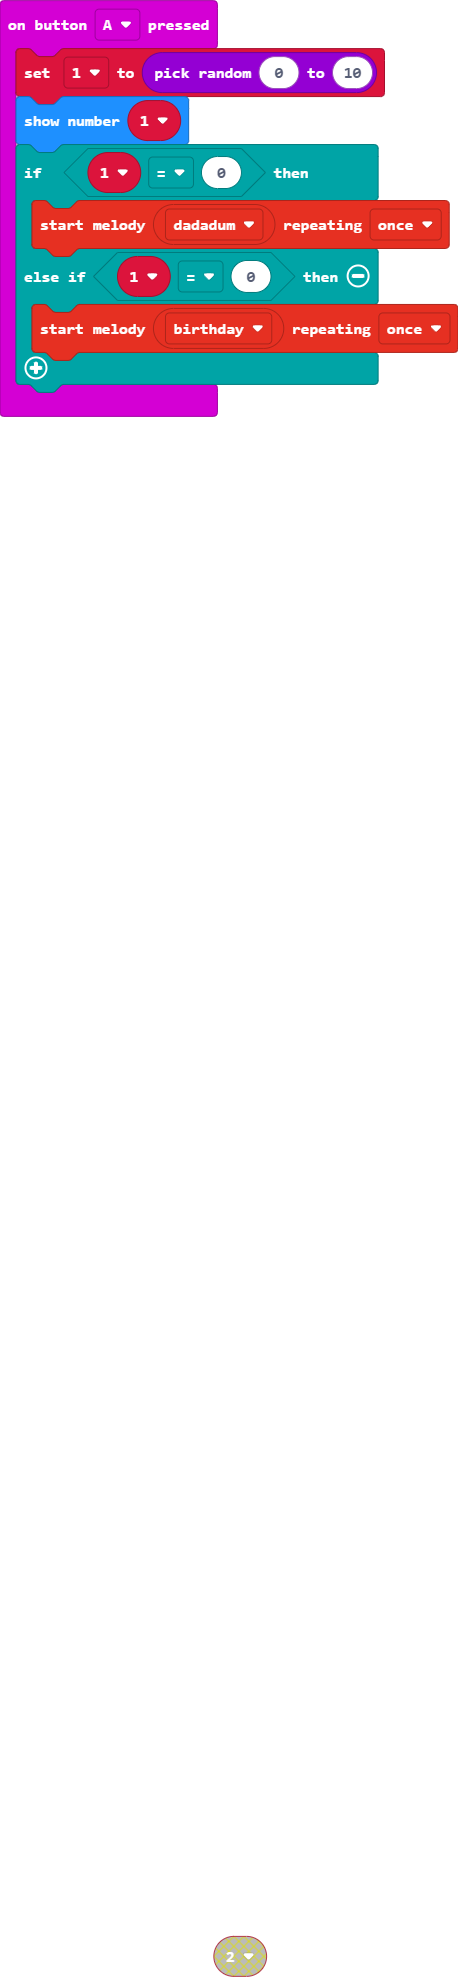
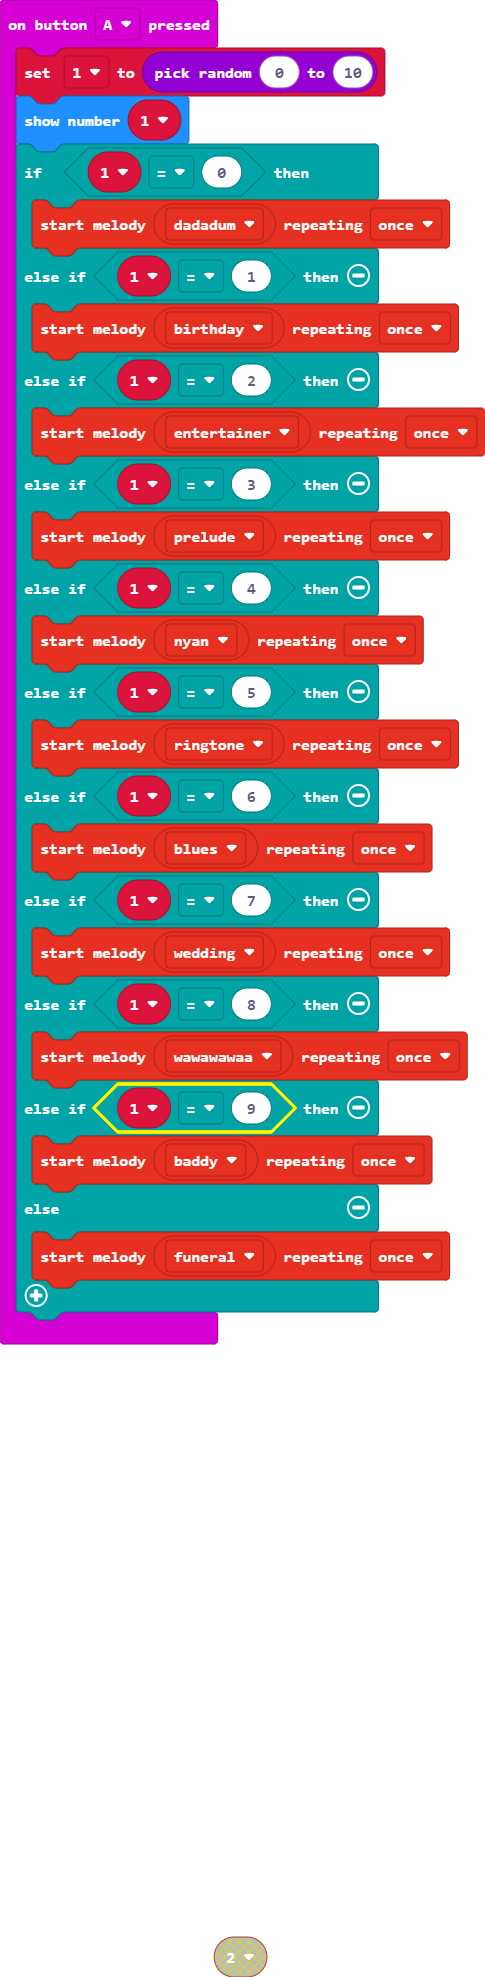
Update main.blocks, main.ts

diff --git a/main.ts b/main.ts
@@ -1,10 +1,28 @@
-let _1: number = []
+let _1 = 0
 input.onButtonPressed(Button.A, function () {
     _1 = randint(0, 10)
     basic.showNumber(_1)
     if (_1 == 0) {
         music.startMelody(music.builtInMelody(Melodies.Dadadadum), MelodyOptions.Once)
-    } else if (_1 == 0) {
+    } else if (_1 == 1) {
         music.startMelody(music.builtInMelody(Melodies.Birthday), MelodyOptions.Once)
+    } else if (_1 == 2) {
+        music.startMelody(music.builtInMelody(Melodies.Entertainer), MelodyOptions.Once)
+    } else if (_1 == 3) {
+        music.startMelody(music.builtInMelody(Melodies.Prelude), MelodyOptions.Once)
+    } else if (_1 == 4) {
+        music.startMelody(music.builtInMelody(Melodies.Nyan), MelodyOptions.Once)
+    } else if (_1 == 5) {
+        music.startMelody(music.builtInMelody(Melodies.Ringtone), MelodyOptions.Once)
+    } else if (_1 == 6) {
+        music.startMelody(music.builtInMelody(Melodies.Blues), MelodyOptions.Once)
+    } else if (_1 == 7) {
+        music.startMelody(music.builtInMelody(Melodies.Wedding), MelodyOptions.Once)
+    } else if (_1 == 8) {
+        music.startMelody(music.builtInMelody(Melodies.Wawawawaa), MelodyOptions.Once)
+    } else if (_1 == 9) {
+        music.startMelody(music.builtInMelody(Melodies.Baddy), MelodyOptions.Once)
+    } else {
+        music.startMelody(music.builtInMelody(Melodies.Funeral), MelodyOptions.Once)
     }
 })
